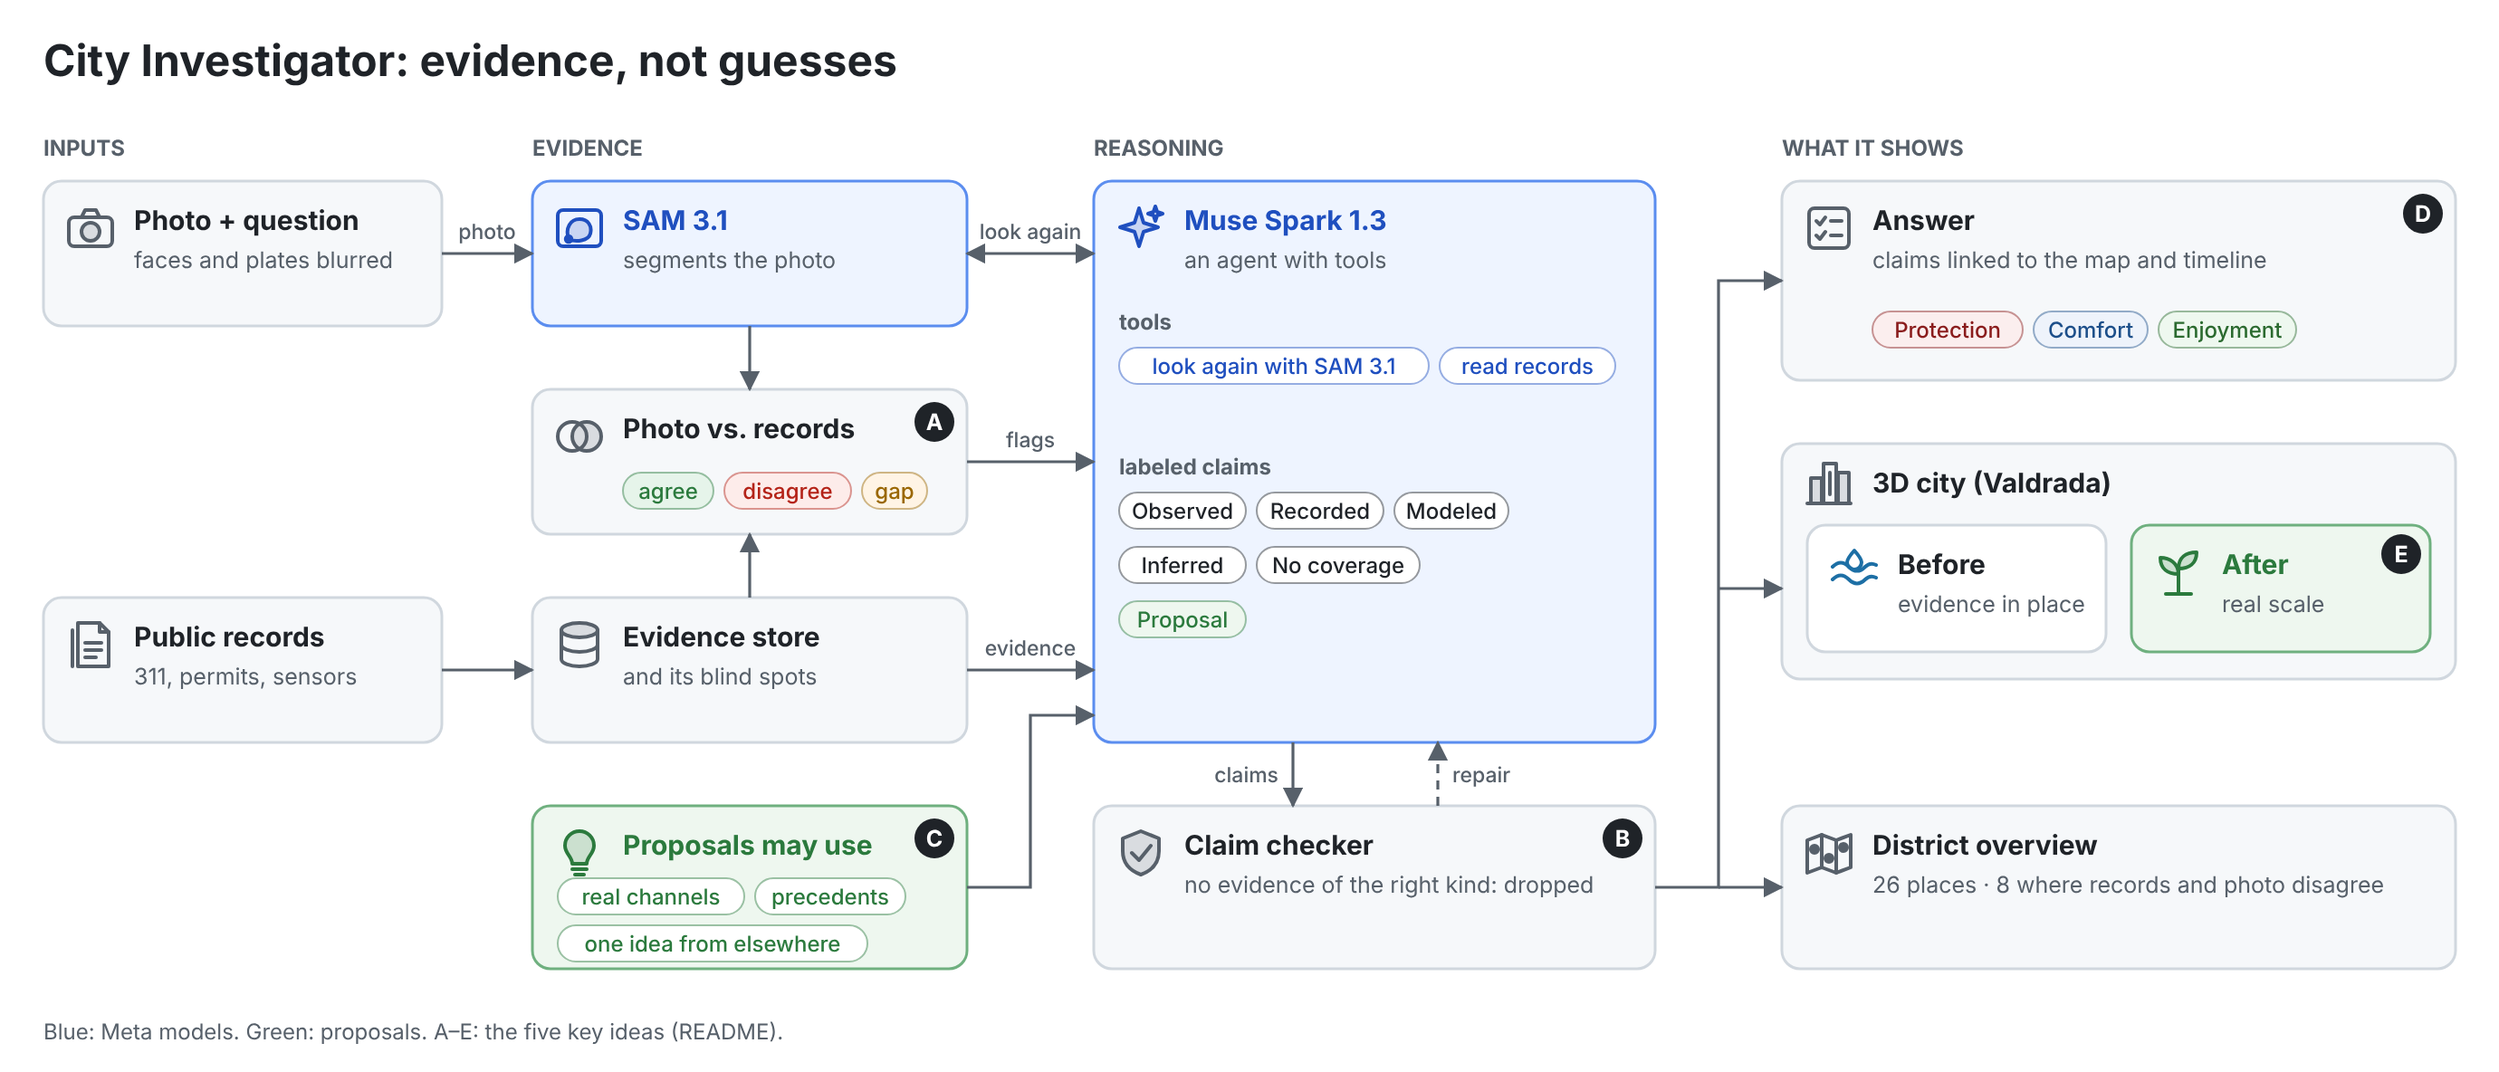
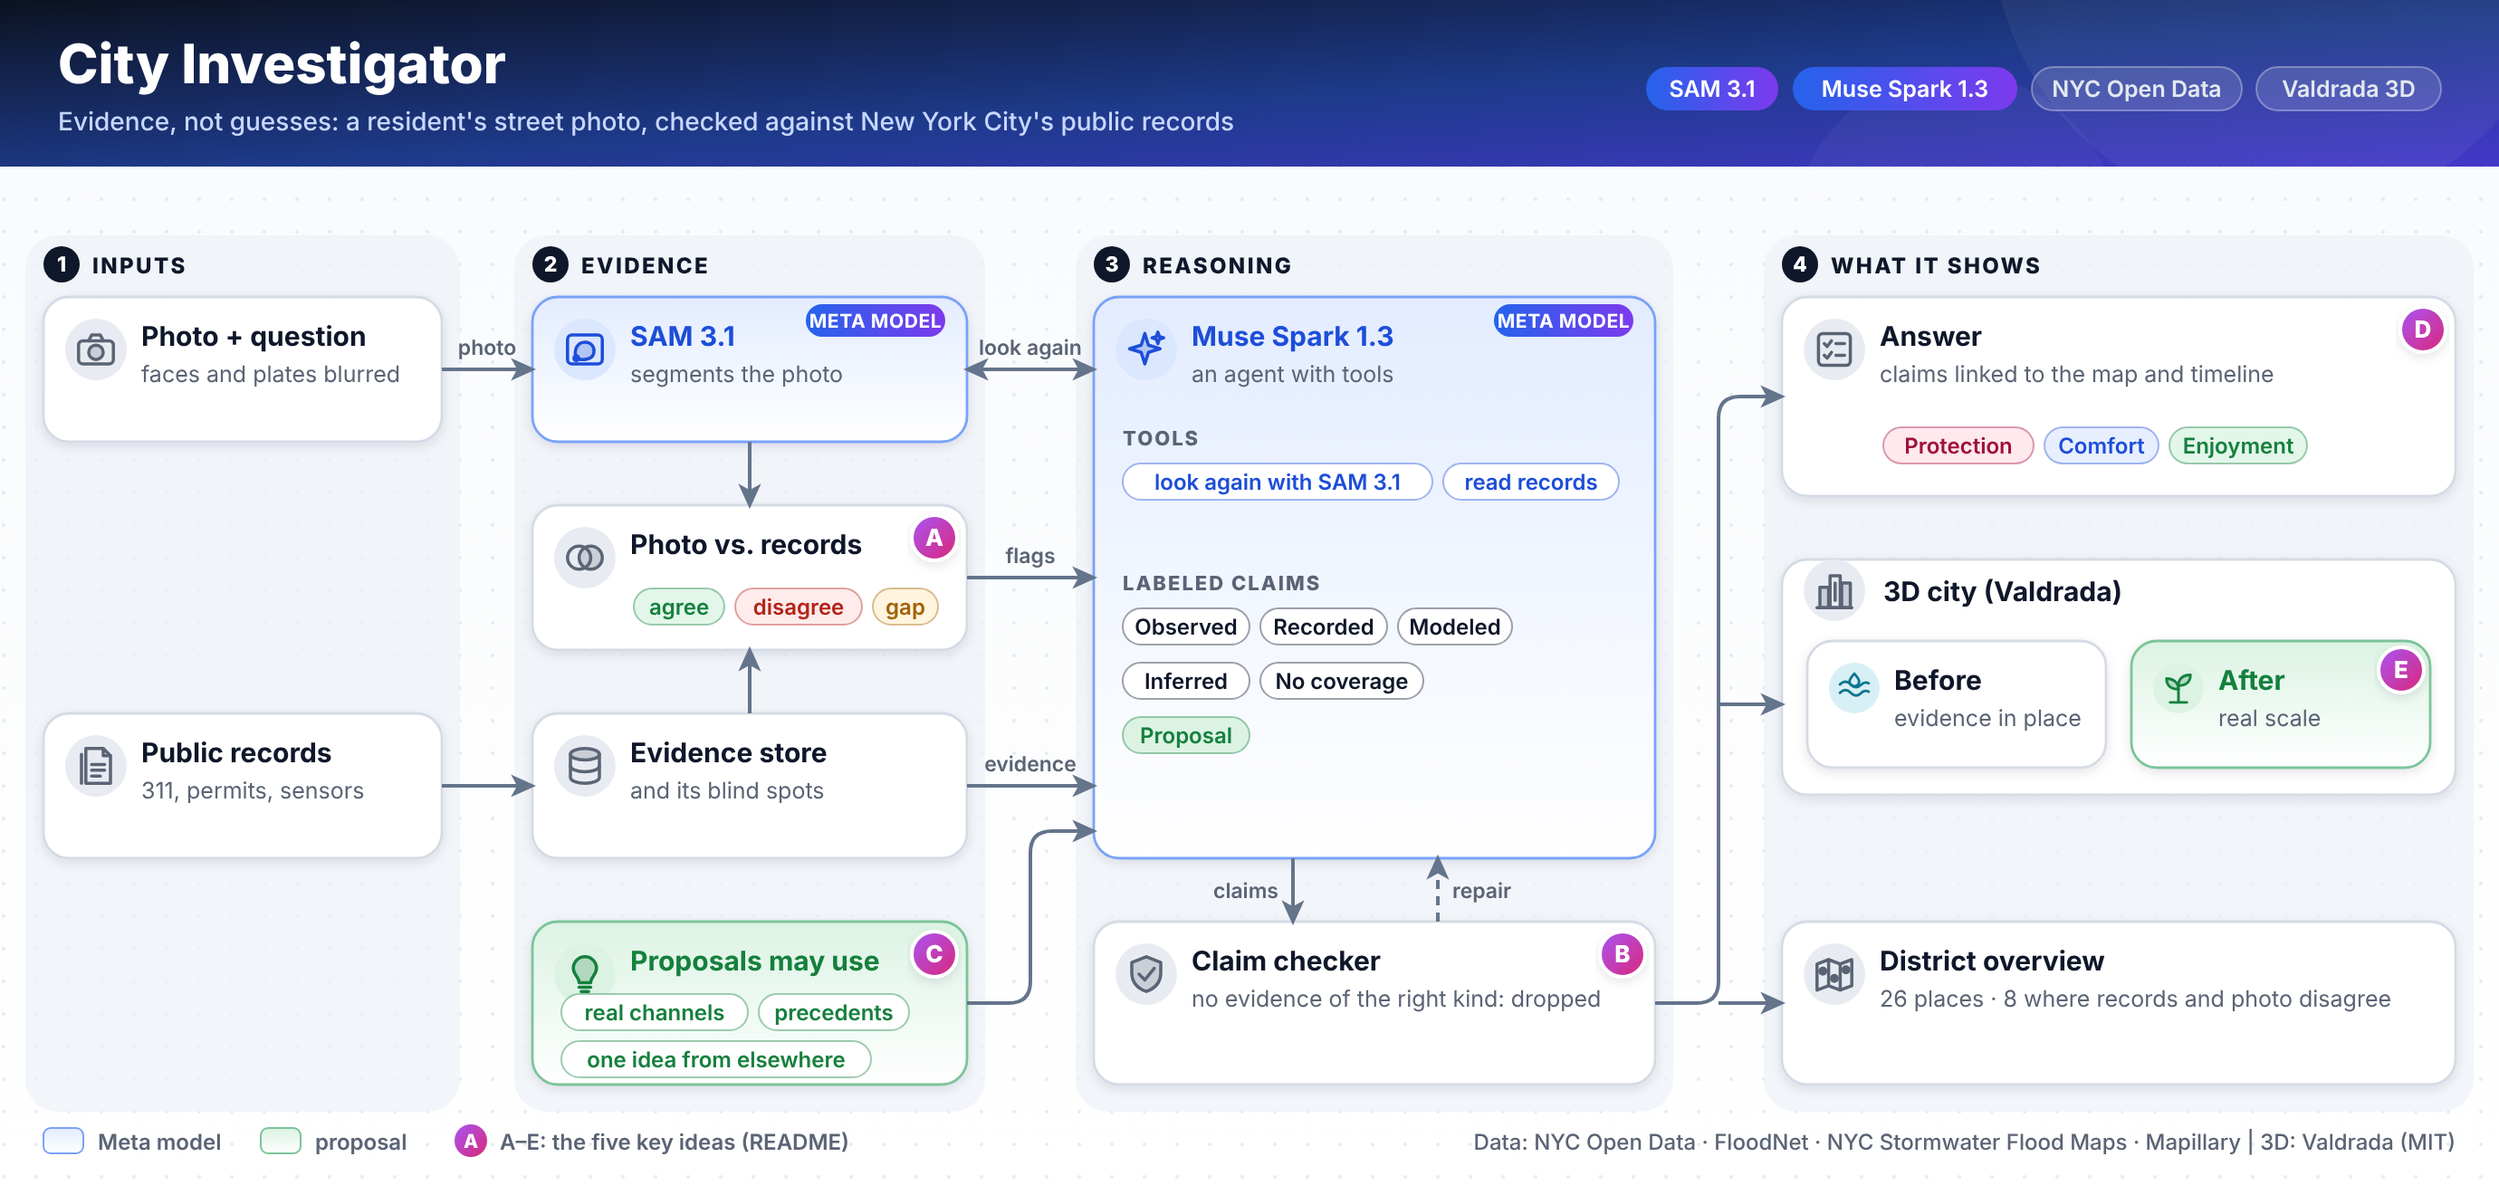
Framework figure, fancier: header band, shadows, lanes, Meta model tags
A dark gradient header with the stack as pills, cards with soft shadows
on tinted stage lanes with numbered headers, a gradient and a Meta model
tag on SAM 3.1 and Muse Spark, icons in tinted circles, rounded arrow
corners, and gradient badges for the five ideas.

Claude-Session: https://claude.ai/code/session_01T9VPtyMNr9L6LvrNLfJEZR

diff --git a/docs/framework.py b/docs/framework.py
@@ -6,34 +6,39 @@ Usage: python docs/framework.py docs/framework.svg
 import sys
 from xml.sax.saxutils import escape
 
-W, H = 1380, 592
-TEXT, MUTED, LINE = "#1f2328", "#57606a", "#d0d7de"
-BLUE, BLUE_BG, BLUE_LINE = "#1f4fbf", "#eef4ff", "#5b8def"
-GREEN, GREEN_BG, GREEN_LINE = "#2b7a3d", "#eef7ef", "#6fb07f"
-WATER = "#1d6fa5"
-FLAGS = {"agree": ("#2b7a3d", "#e6f4ea"), "disagree": ("#b42318", "#fdecea"), "gap": ("#9a6700", "#fff4e5")}
-NEEDS = {"Protection": ("#8a1c1c", "#fbeeee"), "Comfort": ("#1d4f8a", "#eef3fb"), "Enjoyment": ("#2b6a2f", "#eef8ef")}
+W, H, TOP = 1380, 660, 64  # TOP: the header band's height over the old layout
+TEXT, MUTED, LINE, ARROW = "#0f172a", "#5b6475", "#d5dbe5", "#64748b"
+BLUE, BLUE_LINE, BLUE_TINT = "#1d4ed8", "#7aa2f7", "#dbe7ff"
+GREEN, GREEN_LINE, GREEN_TINT = "#15803d", "#7cc49a", "#dcf3e4"
+WATER, WATER_TINT, GRAY_TINT = "#0e7490", "#d7f0f5", "#e8ecf2"
+FLAGS = {"agree": ("#15803d", "#e3f6ea"), "disagree": ("#b42318", "#fdeceb"), "gap": ("#a16207", "#fff4dd")}
+NEEDS = {"Protection": ("#9f1239", "#ffe8ee"), "Comfort": ("#1d4ed8", "#e7efff"), "Enjoyment": ("#15803d", "#e3f6ea")}
 out = []
 
 
-def text(x, y, s, size=13, weight=400, color=TEXT, anchor="start"):
-    out.append(f'<text x="{x}" y="{y}" font-size="{size}" font-weight="{weight}" fill="{color}" text-anchor="{anchor}">{escape(s)}</text>')
+def text(x, y, s, size=13, weight=400, color=TEXT, anchor="start", spacing=None):
+    sp = f' letter-spacing="{spacing}"' if spacing else ""
+    out.append(f'<text x="{x}" y="{y}" font-size="{size}" font-weight="{weight}" fill="{color}" text-anchor="{anchor}"{sp}>{escape(s)}</text>')
 
 
-def box(x, y, w, h, fill="#f6f8fa", stroke=LINE):
-    out.append(f'<rect x="{x}" y="{y}" width="{w}" height="{h}" rx="10" fill="{fill}" stroke="{stroke}" stroke-width="1.5"/>')
+def card(x, y, w, h, fill="#ffffff", stroke=LINE, shadow=True):
+    s = ' filter="url(#shadow)"' if shadow else ""
+    out.append(f'<rect x="{x}" y="{y}" width="{w}" height="{h}" rx="14" fill="{fill}" stroke="{stroke}" stroke-width="1.4"{s}/>')
 
 
-# Icons: 28 by 28, drawn from their top-left corner in one color.
-def icon(kind, x, y, c):
-    g = f'<g transform="translate({x} {y})" fill="none" stroke="{c}" stroke-width="2" stroke-linecap="round" stroke-linejoin="round">'
-    soft = f'fill="{c}" fill-opacity="0.18"'
+# Icons: drawn on a 28 by 28 grid, placed by their center inside a tinted circle.
+def icon(kind, cx, cy, c, tint, r=17, scale=0.8):
+    out.append(f'<circle cx="{cx}" cy="{cy}" r="{r}" fill="{tint}"/>')
+    half = 14 * scale
+    g = (f'<g transform="translate({cx - half} {cy - half}) scale({scale})" fill="none" stroke="{c}" stroke-width="2.2" '
+         f'stroke-linecap="round" stroke-linejoin="round">')
+    soft = f'fill="{c}" fill-opacity="0.22"'
     shapes = {
         "camera": f'<rect x="2" y="8" width="24" height="16" rx="3"/><path d="M9 8 L11 4 H17 L19 8"/><circle cx="14" cy="16" r="5" {soft}/>',
         "records": '<path d="M7 2 H19 L24 7 V26 H7 Z"/><path d="M19 2 V7 H24"/><path d="M4 6 V26"/><line x1="11" y1="13" x2="20" y2="13"/>'
                    '<line x1="11" y1="17" x2="20" y2="17"/><line x1="11" y1="21" x2="17" y2="21"/>',
         "segment": f'<rect x="2" y="4" width="24" height="20" rx="3"/><path d="M8 20 C6 14 9 9 14 9 C19 9 21 13 20 17 C19 21 12 22 8 20 Z" {soft}/>'
-                   '<circle cx="8" cy="20" r="1.6" fill="currentColor"/>',
+                   f'<circle cx="8" cy="20" r="1.6" fill="{c}"/>',
         "compare": f'<circle cx="10" cy="14" r="8"/><circle cx="18" cy="14" r="8" {soft}/>',
         "database": f'<ellipse cx="14" cy="6" rx="10" ry="4" {soft}/><path d="M4 6 V22 C4 24.2 8.5 26 14 26 C19.5 26 24 24.2 24 22 V6"/>'
                     '<path d="M4 14 C4 16.2 8.5 18 14 18 C19.5 18 24 16.2 24 14"/>',
@@ -53,24 +58,25 @@ def icon(kind, x, y, c):
         "map": f'<path d="M2 7 L10 4 L18 7 L26 4 V22 L18 25 L10 22 L2 25 Z"/><path d="M10 4 V22 M18 7 V25"/>'
                f'<circle cx="6" cy="12" r="2" fill="{c}"/><circle cx="14" cy="17" r="2" fill="{c}"/><circle cx="22" cy="11" r="2" fill="{c}"/>',
     }
-    out.append(g + shapes[kind].replace('fill="currentColor"', f'fill="{c}"') + "</g>")
+    out.append(g + shapes[kind] + "</g>")
 
 
-def titled(x, y, w, h, title, sub=None, fill="#f6f8fa", stroke=LINE, color=TEXT, mark=None, icon_color=None):
-    box(x, y, w, h, fill, stroke)
-    left = x + 14
+def titled(x, y, w, h, title, sub=None, fill="#ffffff", stroke=LINE, color=TEXT, mark=None, ink=MUTED, tint=GRAY_TINT, small=False):
+    card(x, y, w, h, fill, stroke)
+    left = x + 16
     if mark:
-        icon(mark, x + 12, y + 12, icon_color or (color if color != TEXT else MUTED))
-        left = x + 50
+        r = 14 if small else 17
+        icon(mark, x + 12 + r, y + 12 + r, ink, tint, r, 0.66 if small else 0.8)
+        left = x + 20 + 2 * r
     text(left, y + 27, title, 15, 700, color)
     if sub:
-        text(left, y + 48, sub, 12.5, 400, MUTED)
+        text(left, y + 47, sub, 12.5, 400, MUTED)
 
 
 def chip(x, y, label, fg, bg, size=12):
     w = round(len(label) * size * 0.56 + 16)
-    out.append(f'<rect x="{x}" y="{y - 14}" width="{w}" height="20" rx="10" fill="{bg}" stroke="{fg}" stroke-opacity="0.45"/>')
-    text(x + w / 2, y + 0.5, label, size, 500, fg, "middle")
+    out.append(f'<rect x="{x}" y="{y - 14}" width="{w}" height="20" rx="10" fill="{bg}" stroke="{fg}" stroke-opacity="0.4"/>')
+    text(x + w / 2, y + 0.5, label, size, 600, fg, "middle")
     return w
 
 
@@ -80,27 +86,68 @@ def chips(x, y, labels, colors, gap=6):
         x += chip(x, y, label, fg, bg) + gap
 
 
+def tag(xr, y, label):
+    """A small tag at a card's top right: the card is a Meta model."""
+    w = round(len(label) * 10.5 * 0.6 + 14)
+    out.append(f'<rect x="{xr - w}" y="{y - 12}" width="{w}" height="18" rx="9" fill="url(#meta)"/>')
+    text(xr - w / 2, y + 1, label, 10.5, 700, "#ffffff", "middle", 0.3)
+
+
 def badge(x, y, letter):
     """A key idea, explained under the same letter in the README."""
-    out.append(f'<circle cx="{x}" cy="{y}" r="11" fill="{TEXT}"/>')
-    text(x, y + 4.5, letter, 12.5, 700, "#ffffff", "middle")
+    out.append(f'<circle cx="{x}" cy="{y}" r="12.5" fill="url(#idea)" stroke="#ffffff" stroke-width="2" filter="url(#shadow)"/>')
+    text(x, y + 4.5, letter, 13, 800, "#ffffff", "middle")
+
+
+def path(points, radius=12):
+    """A polyline with rounded corners."""
+    d = f"M{points[0][0]},{points[0][1]}"
+    for (x0, y0), (x1, y1), (x2, y2) in zip(points, points[1:], points[2:]):
+        r1 = min(radius, abs(x1 - x0) + abs(y1 - y0)) / max(abs(x1 - x0) + abs(y1 - y0), 1)
+        r2 = min(radius, abs(x2 - x1) + abs(y2 - y1)) / max(abs(x2 - x1) + abs(y2 - y1), 1)
+        d += f" L{x1 - (x1 - x0) * r1},{y1 - (y1 - y0) * r1} Q{x1},{y1} {x1 + (x2 - x1) * r2},{y1 + (y2 - y1) * r2}"
+    return d + f" L{points[-1][0]},{points[-1][1]}"
 
 
 def arrow(points, label=None, at=None, dash=False, both=False, anchor="middle"):
-    pts = " ".join(f"{x},{y}" for x, y in points)
     d = ' stroke-dasharray="5 4"' if dash else ""
     start = ' marker-start="url(#head)"' if both else ""
-    out.append(f'<polyline points="{pts}" fill="none" stroke="{MUTED}" stroke-width="1.6"{d}{start} marker-end="url(#head)"/>')
+    out.append(f'<path d="{path(points)}" fill="none" stroke="{ARROW}" stroke-width="2"{d}{start} marker-end="url(#head)"/>')
     if label:
-        text(at[0], at[1], label, 11.5, 500, MUTED, anchor)
+        text(at[0], at[1], label, 11.5, 600, MUTED, anchor)
 
 
+def pill(x, y, label, fill, color="#ffffff", stroke=None):
+    w = round(len(label) * 12.5 * 0.58 + 22)
+    s = f' stroke="{stroke}"' if stroke else ""
+    out.append(f'<rect x="{x}" y="{y - 15}" width="{w}" height="24" rx="12" fill="{fill}"{s}/>')
+    text(x + w / 2, y + 1.5, label, 12.5, 600, color, "middle")
+    return w
+
+
+# background and header
+out.append(f'<rect width="{W}" height="{H}" fill="url(#page)"/>')
+out.append(f'<rect width="{W}" height="{H}" fill="url(#dots)"/>')
+out.append(f'<rect width="{W}" height="92" fill="url(#band)"/>')
+out.append(f'<circle cx="{W - 120}" cy="-40" r="160" fill="#ffffff" fill-opacity="0.05"/><circle cx="{W - 300}" cy="130" r="90" fill="#ffffff" fill-opacity="0.04"/>')
+text(32, 46, "City Investigator", 30, 800, "#ffffff")
+text(32, 72, "Evidence, not guesses: a resident's street photo, checked against New York City's public records", 14, 500, "#c7d7fe")
+xp = W - 32
+for label, fill, color, stroke in reversed((("SAM 3.1", "url(#meta)", "#ffffff", None), ("Muse Spark 1.3", "url(#meta)", "#ffffff", None),
+                                           ("NYC Open Data", "#ffffff22", "#e2e8f0", "#ffffff55"), ("Valdrada 3D", "#ffffff22", "#e2e8f0", "#ffffff55"))):
+    w = round(len(label) * 12.5 * 0.58 + 22)
+    xp -= w
+    pill(xp, 52, label, fill, color, stroke)
+    xp -= 8
+
+out.append(f'<g transform="translate(0 {TOP})">')
 C1, C2, C3, C4 = (24, 220), (294, 240), (604, 310), (984, 372)
 right = lambda c: c[0] + c[1]
-out.append(f'<rect width="{W}" height="{H}" fill="#ffffff"/>')
-text(24, 42, "City Investigator: evidence, not guesses", 24, 700)
-for (x, _), head in zip((C1, C2, C3, C4), ("INPUTS", "EVIDENCE", "REASONING", "WHAT IT SHOWS")):
-    text(x, 86, head, 12, 700, MUTED)
+for n, ((x, w), head) in enumerate(zip((C1, C2, C3, C4), ("INPUTS", "EVIDENCE", "REASONING", "WHAT IT SHOWS")), 1):
+    out.append(f'<rect x="{x - 10}" y="66" width="{w + 20}" height="484" rx="18" fill="#eef2f7" fill-opacity="0.75"/>')
+    out.append(f'<circle cx="{x + 10}" cy="{82}" r="10" fill="{TEXT}"/>')
+    text(x + 10, 86, str(n), 11.5, 800, "#ffffff", "middle")
+    text(x + 27, 87, head, 12, 800, TEXT, spacing=1.2)
 
 # inputs
 x, w = C1
@@ -109,26 +156,28 @@ titled(x, 330, w, 80, "Public records", "311, permits, sensors", mark="records")
 
 # evidence
 x, w = C2
-titled(x, 100, w, 80, "SAM 3.1", "segments the photo", BLUE_BG, BLUE_LINE, BLUE, "segment")
+titled(x, 100, w, 80, "SAM 3.1", "segments the photo", "url(#blue)", BLUE_LINE, BLUE, "segment", BLUE, BLUE_TINT)
+tag(right(C2) - 12, 116, "META MODEL")
 titled(x, 215, w, 80, "Photo vs. records", mark="compare")
-chips(x + 50, 275, ["agree", "disagree", "gap"], FLAGS)
+chips(x + 56, 275, ["agree", "disagree", "gap"], FLAGS)
 badge(right(C2) - 18, 233, "A")
 titled(x, 330, w, 80, "Evidence store", "and its blind spots", mark="database")
-titled(x, 445, w, 90, "Proposals may use", None, GREEN_BG, GREEN_LINE, GREEN, "bulb")
-chips(x + 14, 499, ["real channels", "precedents"], (GREEN, "#ffffff"))
-chips(x + 14, 525, ["one idea from elsewhere"], (GREEN, "#ffffff"))
+titled(x, 445, w, 90, "Proposals may use", None, "url(#green)", GREEN_LINE, GREEN, "bulb", GREEN, GREEN_TINT)
+chips(x + 16, 499, ["real channels", "precedents"], (GREEN, "#ffffff"))
+chips(x + 16, 525, ["one idea from elsewhere"], (GREEN, "#ffffff"))
 badge(right(C2) - 18, 463, "C")
 
 # reasoning
 x, w = C3
-titled(x, 100, w, 310, "Muse Spark 1.3", "an agent with tools", BLUE_BG, BLUE_LINE, BLUE, "spark")
-text(x + 14, 182, "tools", 12, 700, MUTED)
-chips(x + 14, 206, ["look again with SAM 3.1", "read records"], (BLUE, "#ffffff"))
-text(x + 14, 262, "labeled claims", 12, 700, MUTED)
+titled(x, 100, w, 310, "Muse Spark 1.3", "an agent with tools", "url(#blue)", BLUE_LINE, BLUE, "spark", BLUE, BLUE_TINT)
+tag(right(C3) - 12, 116, "META MODEL")
+text(x + 16, 182, "TOOLS", 11, 800, MUTED, spacing=1)
+chips(x + 16, 206, ["look again with SAM 3.1", "read records"], (BLUE, "#ffffff"))
+text(x + 16, 262, "LABELED CLAIMS", 11, 800, MUTED, spacing=1)
 claim = (TEXT, "#ffffff")
-chips(x + 14, 286, ["Observed", "Recorded", "Modeled"], claim)
-chips(x + 14, 316, ["Inferred", "No coverage"], claim)
-chips(x + 14, 346, ["Proposal"], (GREEN, GREEN_BG))
+chips(x + 16, 286, ["Observed", "Recorded", "Modeled"], claim)
+chips(x + 16, 316, ["Inferred", "No coverage"], claim)
+chips(x + 16, 346, ["Proposal"], (GREEN, GREEN_TINT))
 titled(x, 445, w, 90, "Claim checker", "no evidence of the right kind: dropped", mark="shield")
 badge(right(C3) - 18, 463, "B")
 arrow([(x + 110, 410), (x + 110, 445)], "claims", (x + 102, 432), anchor="end")
@@ -149,28 +198,49 @@ arrow([(right(C2), 490), (gap2, 490), (gap2, 395), (C3[0], 395)])
 # what it shows
 x, w = C4
 titled(x, 100, w, 110, "Answer", "claims linked to the map and timeline", mark="answer")
-chips(x + 50, 186, ["Protection", "Comfort", "Enjoyment"], NEEDS)
+chips(x + 56, 186, ["Protection", "Comfort", "Enjoyment"], NEEDS)
 badge(right(C4) - 18, 118, "D")
-box(x, 245, w, 130)
-icon("city", x + 12, 252, MUTED)
-text(x + 50, 272, "3D city (Valdrada)", 15, 700)
+card(x, 245, w, 130)
+icon("city", x + 29, 262, MUTED, GRAY_TINT)
+text(x + 56, 268, "3D city (Valdrada)", 15, 700)
 half = (w - 42) / 2
-titled(x + 14, 290, half, 70, "Before", "evidence in place", "#ffffff", mark="water", icon_color=WATER)
-titled(x + 28 + half, 290, half, 70, "After", "real scale", GREEN_BG, GREEN_LINE, GREEN, "sprout")
+titled(x + 14, 290, half, 70, "Before", "evidence in place", "#ffffff", mark="water", ink=WATER, tint=WATER_TINT, small=True)
+titled(x + 28 + half, 290, half, 70, "After", "real scale", "url(#green)", GREEN_LINE, GREEN, "sprout", GREEN, GREEN_TINT, small=True)
 badge(x + 28 + 2 * half - 16, 306, "E")
 titled(x, 445, w, 90, "District overview", "26 places · 8 where records and photo disagree", mark="map")
 bus = (right(C3) + C4[0]) / 2
 arrow([(right(C3), 490), (bus, 490), (bus, 155), (C4[0], 155)])
 arrow([(bus, 325), (C4[0], 325)])
 arrow([(bus, 490), (C4[0], 490)])
+out.append("</g>")
 
-text(24, 574, "Blue: Meta models.  Green: proposals.  A–E: the five key ideas (README).", 12, 400, MUTED)
+# key
+y = H - 26
+xk = 24
+out.append(f'<rect x="{xk}" y="{y - 11}" width="22" height="14" rx="4" fill="url(#blue)" stroke="{BLUE_LINE}"/>')
+text(xk + 30, y + 1, "Meta model", 12, 600, MUTED)
+out.append(f'<rect x="{xk + 120}" y="{y - 11}" width="22" height="14" rx="4" fill="url(#green)" stroke="{GREEN_LINE}"/>')
+text(xk + 150, y + 1, "proposal", 12, 600, MUTED)
+out.append(f'<circle cx="{xk + 236}" cy="{y - 4}" r="9" fill="url(#idea)"/>')
+text(xk + 236, y, "A", 10.5, 800, "#ffffff", "middle")
+text(xk + 252, y + 1, "A–E: the five key ideas (README)", 12, 600, MUTED)
+text(W - 24, y + 1, "Data: NYC Open Data · FloodNet · NYC Stormwater Flood Maps · Mapillary  |  3D: Valdrada (MIT)", 12, 500, MUTED, "end")
+
+defs = f'''<defs>
+<marker id="head" viewBox="0 0 10 10" refX="8.5" refY="5" markerWidth="7" markerHeight="7" orient="auto-start-reverse"><path d="M0,0.5 L10,5 L0,9.5 L2.5,5 z" fill="{ARROW}"/></marker>
+<filter id="shadow" x="-10%" y="-10%" width="120%" height="140%"><feDropShadow dx="0" dy="2" stdDeviation="3" flood-color="#0f172a" flood-opacity="0.10"/></filter>
+<linearGradient id="page" x1="0" y1="0" x2="0" y2="1"><stop offset="0" stop-color="#f8fafc"/><stop offset="1" stop-color="#ffffff"/></linearGradient>
+<pattern id="dots" width="18" height="18" patternUnits="userSpaceOnUse"><circle cx="2" cy="2" r="1" fill="#cbd5e1" fill-opacity="0.45"/></pattern>
+<linearGradient id="band" x1="0" y1="0" x2="1" y2="1"><stop offset="0" stop-color="#0b1220"/><stop offset="0.55" stop-color="#1e3a8a"/><stop offset="1" stop-color="#4338ca"/></linearGradient>
+<linearGradient id="meta" x1="0" y1="0" x2="1" y2="0"><stop offset="0" stop-color="#2563eb"/><stop offset="1" stop-color="#7c3aed"/></linearGradient>
+<linearGradient id="blue" x1="0" y1="0" x2="0" y2="1"><stop offset="0" stop-color="#e3ecff"/><stop offset="1" stop-color="#ffffff"/></linearGradient>
+<linearGradient id="green" x1="0" y1="0" x2="0" y2="1"><stop offset="0" stop-color="#dcf3e4"/><stop offset="1" stop-color="#ffffff"/></linearGradient>
+<linearGradient id="idea" x1="0" y1="0" x2="1" y2="1"><stop offset="0" stop-color="#a855f7"/><stop offset="1" stop-color="#db2777"/></linearGradient>
+</defs>'''
 
 svg = (f'<svg xmlns="http://www.w3.org/2000/svg" viewBox="0 0 {W} {H}" width="{W}" height="{H}" role="img" '
        f'aria-label="City Investigator framework: a photo and public records become evidence (SAM 3.1, an evidence store, '
        f'photo versus records checks), Muse Spark reasons with tools and writes labeled claims that a checker verifies, and '
        f'the result shows as an answer, a 3D city before and after the proposals, and a district overview" '
-       f'font-family="-apple-system, Segoe UI, Helvetica, Arial, sans-serif">'
-       f'<defs><marker id="head" viewBox="0 0 10 10" refX="9" refY="5" markerWidth="7" markerHeight="7" orient="auto-start-reverse">'
-       f'<path d="M0,0 L10,5 L0,10 z" fill="{MUTED}"/></marker></defs>' + "".join(out) + "</svg>\n")
+       f'font-family="-apple-system, Segoe UI, Helvetica, Arial, sans-serif">' + defs + "".join(out) + "</svg>\n")
 open(sys.argv[1], "w").write(svg)
